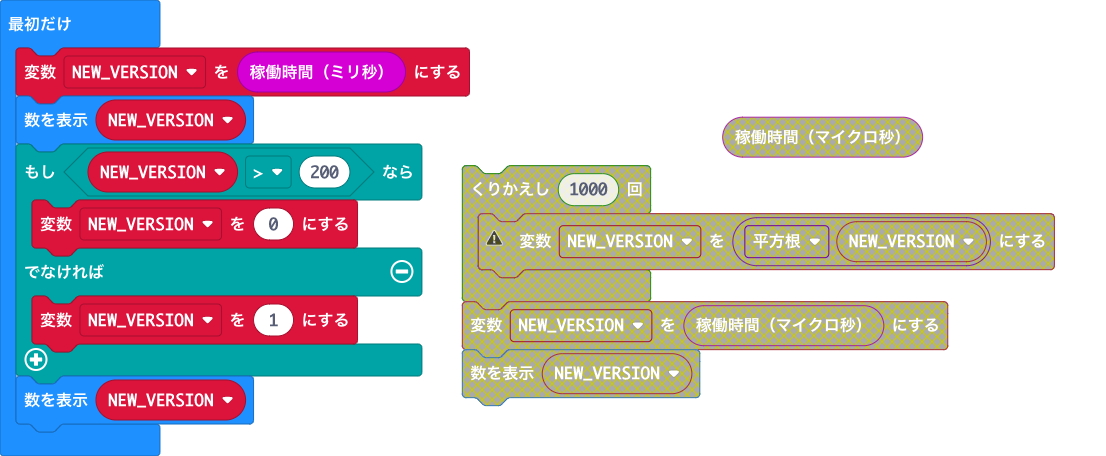
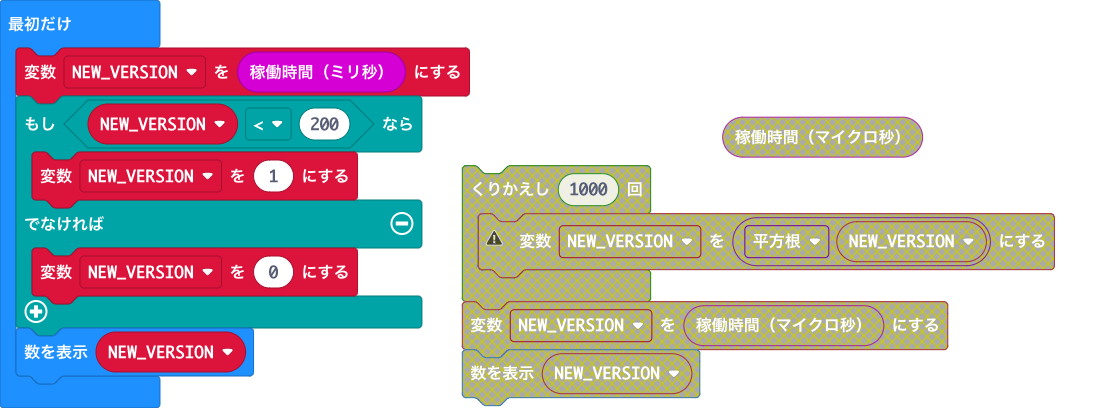
This is to check micro:bit Version 2 or not inside the code.

diff --git a/main.ts b/main.ts
@@ -1,8 +1,7 @@
 let NEW_VERSION = input.runningTime()
-basic.showNumber(NEW_VERSION)
-if (NEW_VERSION > 200) {
-    NEW_VERSION = 0
-} else {
+if (NEW_VERSION < 200) {
     NEW_VERSION = 1
+} else {
+    NEW_VERSION = 0
 }
 basic.showNumber(NEW_VERSION)
